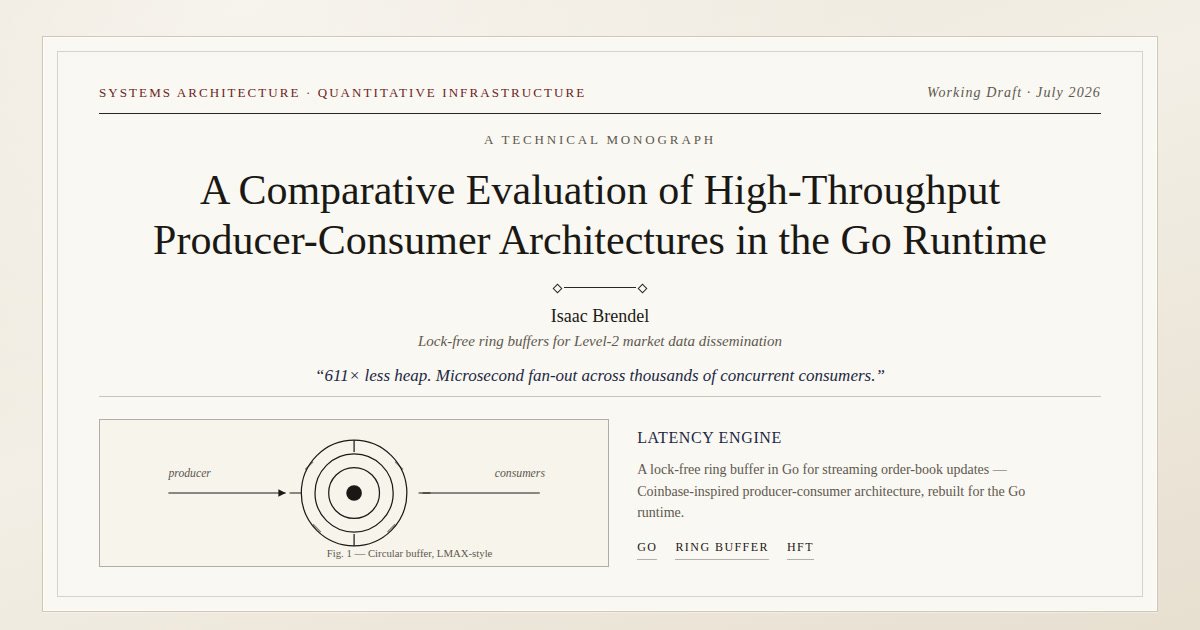
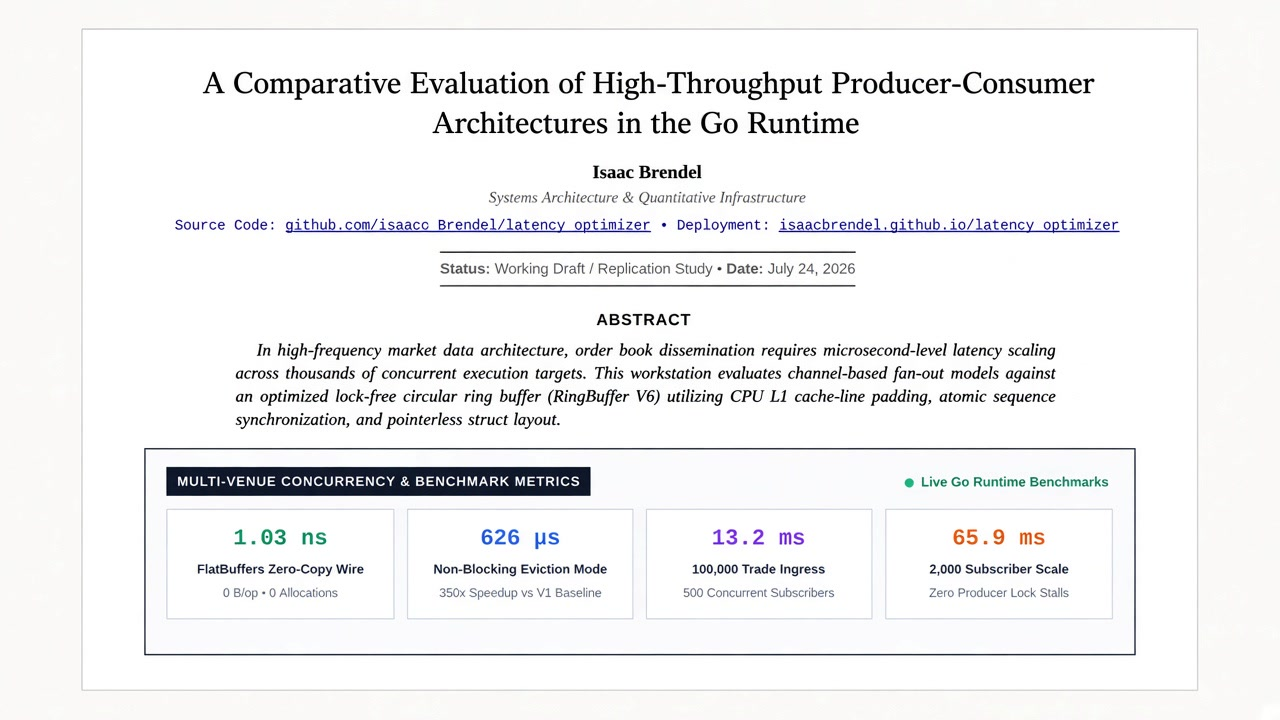
Rebuild featured thumbnail from the live site itself
Playwright-composed OG card using the real docs CSS and a live Vercel
crop — old-internet LaTeX academic look, not ivory-tower monograph art
or dark cyber posters.

diff --git a/docs/assets/og-compose.html b/docs/assets/og-compose.html
@@ -1,0 +1,97 @@
+<!DOCTYPE html>
+<html lang="en">
+<head>
+<meta charset="UTF-8" />
+<link rel="stylesheet" href="http://127.0.0.1:8780/styles.css?v=8" />
+<style>
+  html, body {
+    width: 1200px !important;
+    height: 630px !important;
+    overflow: hidden !important;
+    margin: 0 !important;
+    padding: 0 !important;
+    background: #fbfbf9 !important;
+  }
+  body {
+    padding: 28px 36px !important;
+    font-size: 13px !important;
+  }
+  .paper-container {
+    max-width: none !important;
+    width: 100% !important;
+    height: 100% !important;
+    padding: 28px 40px 24px !important;
+    margin: 0 !important;
+    overflow: hidden !important;
+    display: flex;
+    flex-direction: column;
+  }
+  .academic-title-block { margin-bottom: 1.1rem !important; }
+  .paper-title-large { font-size: 1.55rem !important; margin-bottom: 0.7rem !important; }
+  .authors-block { font-size: 0.88rem !important; margin-bottom: 0.7rem !important; }
+  .abstract-container { margin-bottom: 0.9rem !important; }
+  .abstract-container p {
+    font-size: 0.92rem !important;
+    line-height: 1.45 !important;
+    max-height: 4.6em;
+    overflow: hidden;
+  }
+  .stress-test-abstract-card { margin: 0 !important; }
+  .stress-notes { display: none !important; }
+  .balance-sheet-summary, .paper-section { display: none !important; }
+</style>
+</head>
+<body>
+  <div class="paper-container">
+    <div class="academic-title-block">
+      <h1 class="paper-title-large">A Comparative Evaluation of High-Throughput Producer-Consumer Architectures in the Go Runtime</h1>
+      <div class="authors-block">
+        <strong>Isaac Brendel</strong><br>
+        <span class="author-affiliation">Systems Architecture &amp; Quantitative Infrastructure</span><br>
+        <span class="author-email" style="font-family: var(--font-mono); font-size: 0.78rem; margin-top: 4px; display: block;">
+          Source Code: <a href="https://github.com/isaacbrendel/latency_optimizer" style="color: var(--accent-blue); text-decoration: underline;">github.com/isaacbrendel/latency_optimizer</a> &bull;
+          Deployment: <a href="https://isaacbrendel.github.io/latency_optimizer/" style="color: var(--accent-blue); text-decoration: underline;">isaacbrendel.github.io/latency_optimizer</a>
+        </span>
+      </div>
+      <div class="manuscript-status">
+        <span><strong>Status:</strong> Working Draft / Replication Study</span> &bull;
+        <span><strong>Date:</strong> July 24, 2026</span>
+      </div>
+    </div>
+    <div class="abstract-container">
+      <h3>Abstract</h3>
+      <p>
+        In high-frequency market data architecture, order book dissemination requires microsecond-level latency scaling across thousands of concurrent execution targets. This workstation evaluates channel-based fan-out models against an optimized lock-free circular ring buffer (RingBuffer V6) utilizing CPU L1 cache-line padding, atomic sequence synchronization, and pointerless struct layout. Empirical evaluation demonstrates a 611x heap allocation reduction and 350x execution speedup under non-blocking slow-reader eviction, eliminating thread scheduling contention and GC latency spikes.
+      </p>
+    </div>
+    <div class="stress-test-abstract-card">
+      <div class="stress-header-row">
+        <span class="stress-badge">Multi-Venue Concurrency &amp; Benchmark Metrics</span>
+        <span class="stress-status"><span class="pulse-dot"></span> Live Go Runtime Benchmarks</span>
+      </div>
+      <div class="stress-metrics-grid">
+        <div class="stress-stat">
+          <span class="stat-num text-green">1.03 ns</span>
+          <span class="stat-lbl">FlatBuffers Zero-Copy Wire</span>
+          <span class="stat-sub">0 B/op &bull; 0 Allocations</span>
+        </div>
+        <div class="stress-stat">
+          <span class="stat-num text-blue">626 µs</span>
+          <span class="stat-lbl">Non-Blocking Eviction Mode</span>
+          <span class="stat-sub">350x Speedup vs V1 Baseline</span>
+        </div>
+        <div class="stress-stat">
+          <span class="stat-num text-purple">13.2 ms</span>
+          <span class="stat-lbl">100,000 Trade Ingress</span>
+          <span class="stat-sub">500 Concurrent Subscribers</span>
+        </div>
+        <div class="stress-stat">
+          <span class="stat-num text-orange">65.9 ms</span>
+          <span class="stat-lbl">2,000 Subscriber Scale</span>
+          <span class="stat-sub">Zero Producer Lock Stalls</span>
+        </div>
+      </div>
+    </div>
+  </div>
+</body>
+</html>
